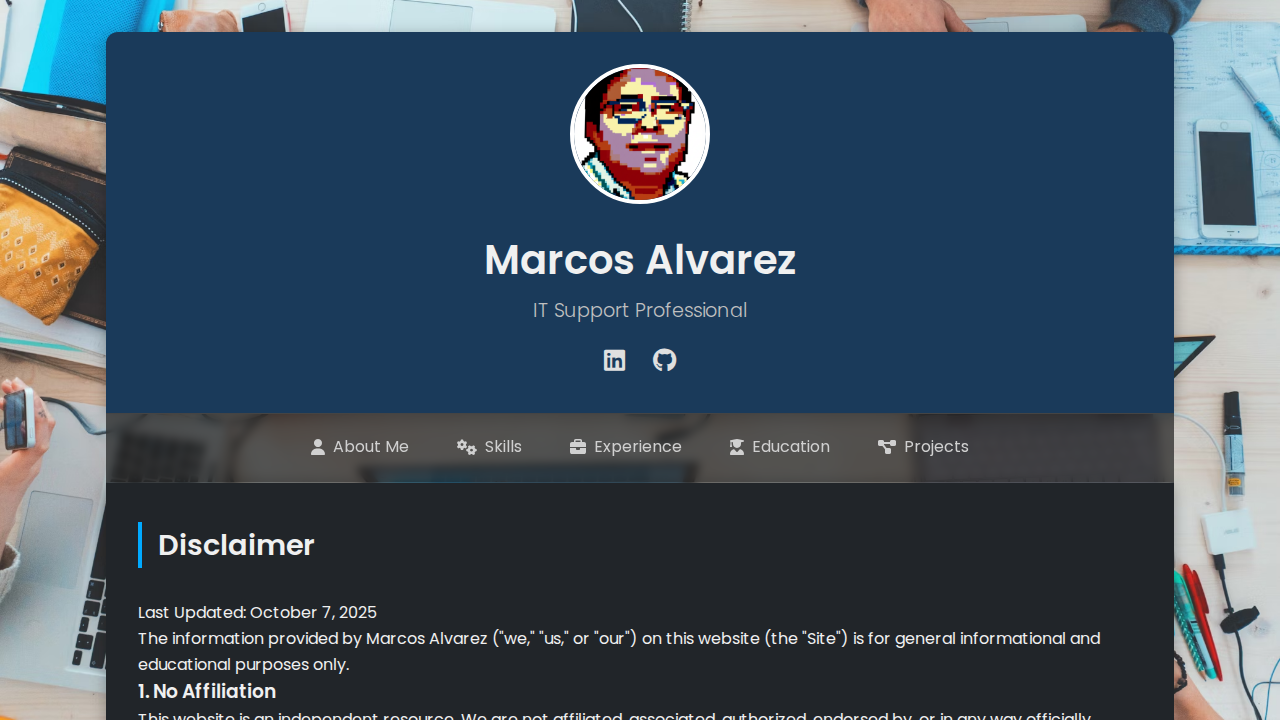
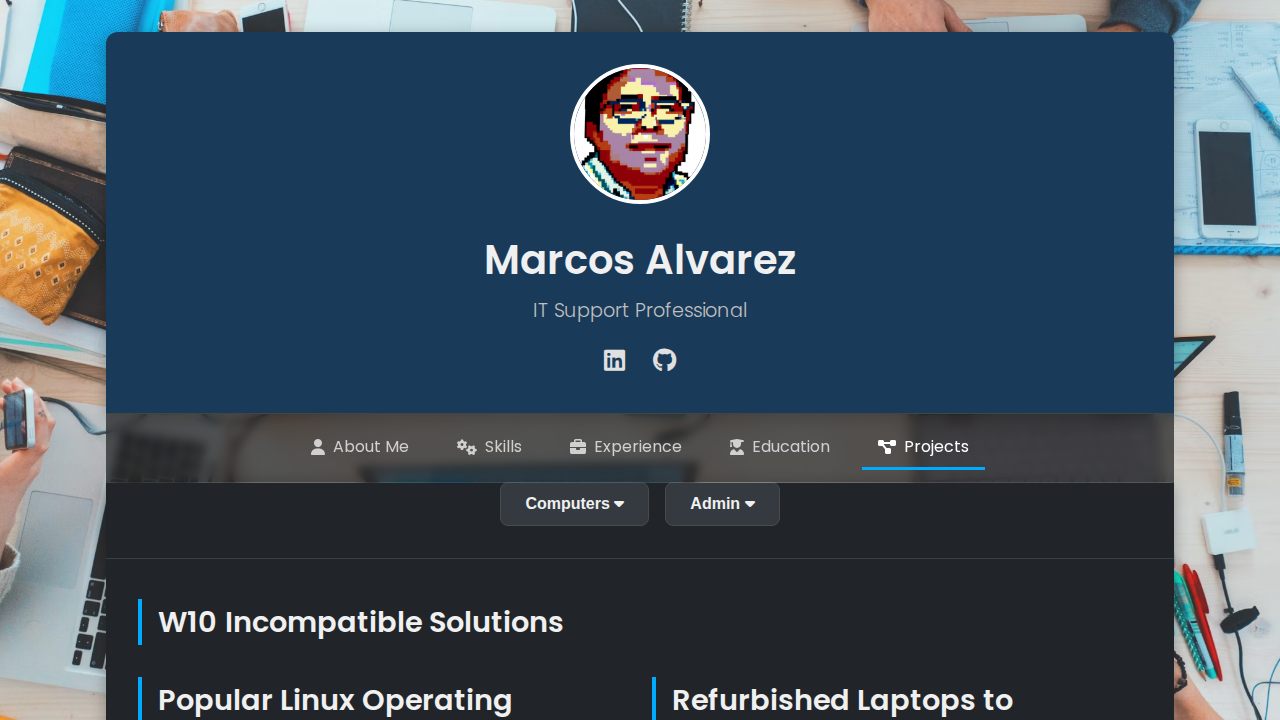
Fix: Prevent JS error by checking for element existence
On the projects page, the "W10 Incompatible Solutions" section was not loading due to a JavaScript error in a shared script.

The `loadAccessories()` function in `js/main.js` was being called on every page, but the `#accessories` element it targets only exists on the `projects.html` page when the 'Laptops' section is active. This caused a null reference error, halting further script execution and preventing the event listeners for the 'W1_Incompatible' button from being attached.

This commit fixes the issue by wrapping the `loadAccessories()` call in a conditional statement that first checks for the existence of the `#accessories` element before attempting to manipulate it. This ensures the error does not occur on pages where the element is not present.

diff --git a/js/projects.js b/js/projects.js
@@ -105,12 +105,19 @@ function loadW10Incompatible() {
 
     loadingIndicator.style.display = 'block';
     container.innerHTML = '';
+    console.log("Attempting to load W10 incompatible data...");
 
     fetchData('/data/w10_incompatible.json')
         .then(data => {
+            console.log("Successfully fetched W10 data:", data);
             loadingIndicator.style.display = 'none';
             if (container) {
+                if (typeof data !== 'object' || data === null) {
+                    console.error("Fetched data is not an object:", data);
+                    throw new Error("Invalid data format");
+                }
                 for (const category in data) {
+                    console.log("Processing category:", category);
                     const categoryContainer = document.createElement('div');
 
                     const categoryTitle = document.createElement('h3');
@@ -120,19 +127,28 @@ function loadW10Incompatible() {
 
                     const cardGrid = document.createElement('div');
                     cardGrid.className = 'card-grid';
-                    data[category].forEach(item => {
-                        cardGrid.appendChild(createW10Card(item));
-                    });
+                    if (Array.isArray(data[category])) {
+                        data[category].forEach(item => {
+                            cardGrid.appendChild(createW10Card(item));
+                        });
+                    } else {
+                        console.error(`Data for category "${category}" is not an array.`);
+                    }
                     categoryContainer.appendChild(cardGrid);
 
                     container.appendChild(categoryContainer);
                 }
+                console.log("Finished rendering W10 incompatible data.");
+            } else {
+                console.error("Container #w10-incompatible-cards not found.");
             }
         })
         .catch(error => {
+            console.error('Error in loadW10Incompatible function:', error);
             loadingIndicator.style.display = 'none';
-            container.textContent = 'Error loading data.';
-            console.error('Error loading W10 incompatible solutions data:', error);
+            if (container) {
+                container.textContent = 'Error loading data.';
+            }
         });
 }
 

diff --git a/js/main.js b/js/main.js
@@ -56,7 +56,9 @@ function setActiveNav() {
 
 document.addEventListener("DOMContentLoaded", () => {
     setActiveNav();
-    loadAccessories();
+    if (document.getElementById("accessories")) {
+        loadAccessories();
+    }
 });
 
 function createAccessoryCard(container, item) {

diff --git a/tests/test_w10_incompatible.py b/tests/test_w10_incompatible.py
@@ -1,0 +1,26 @@
+from playwright.sync_api import Page, expect
+import re
+
+def test_w10_incompatible_loads_without_errors(page: Page):
+    console_logs = []
+    page.on("console", lambda msg: console_logs.append(msg.text))
+
+    page.goto("http://localhost:8000/pages/projects.html")
+
+    # Click the "Computers" dropdown
+    page.locator("#computers-btn").click()
+
+    # Click the "W10 Incompatible Solution" button
+    page.locator("#w10-incompatible-btn").click()
+
+    # Check for the "Error loading data" message
+    error_message = page.locator("#w10-incompatible-cards")
+    expect(error_message).not_to_have_text("Error loading data.")
+
+    # Verify that at least one card is visible
+    expect(page.locator("#w10-incompatible-cards .laptop-card").first).to_be_visible()
+
+    # Print console logs for debugging if the test fails
+    if page.locator("#w10-incompatible-cards").inner_text() == "Error loading data.":
+        for log in console_logs:
+            print(f"Console log: {log}")

diff --git a/jules-scratch/verification/verify_w10_fix.py b/jules-scratch/verification/verify_w10_fix.py
@@ -1,0 +1,16 @@
+from playwright.sync_api import Page, expect
+
+def test_w10_incompatible_loads_correctly(page: Page):
+    page.goto("http://localhost:8000/pages/projects.html")
+
+    # Click the "Computers" dropdown
+    page.locator("#computers-btn").click()
+
+    # Click the "W10 Incompatible Solution" button
+    page.locator("#w10-incompatible-btn").click()
+
+    # Wait for the cards to be visible
+    expect(page.locator("#w10-incompatible-cards .laptop-card").first).to_be_visible()
+
+    # Take a screenshot
+    page.screenshot(path="jules-scratch/verification/verification.png")
